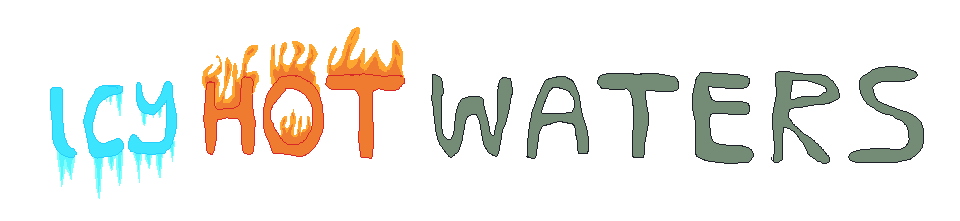
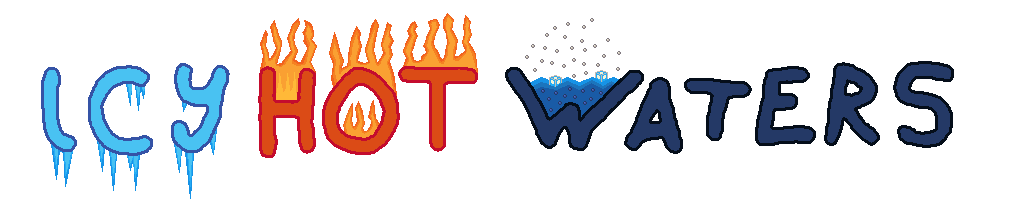
New color palette, revamped some stuff

diff --git a/src/main.py b/src/main.py
@@ -39,9 +39,9 @@ while running:
     #     ),
     # )
     #
-    # for y in range(settings.HEIGHT // 16):
-    #     for x in range(settings.WIDTH // 16):
-    #         screen.blit(ice, (x * 16, y * 16))
+    for y in range(settings.HEIGHT // 16):
+        for x in range(settings.WIDTH // 16):
+            screen.blit(ice, (x * 16, y * 16))
 
     screen.blit(title, (5, 5))
 

diff --git a/src/settings.py b/src/settings.py
@@ -6,7 +6,7 @@ TITLE: str = "Icy Hot Waters"
 # HEIGHT: int = 720 // 2 - 8
 WIDTH: int = 1280
 HEIGHT: int = 720
-DISPLAY_FLAGS: int = pygame.SCALED
+DISPLAY_FLAGS: int = pygame.SCALED  # TODO add FULLSCREEN setting in the UI
 # DISPLAY_FLAGS: int = 0
 
 FPS: int = 240
